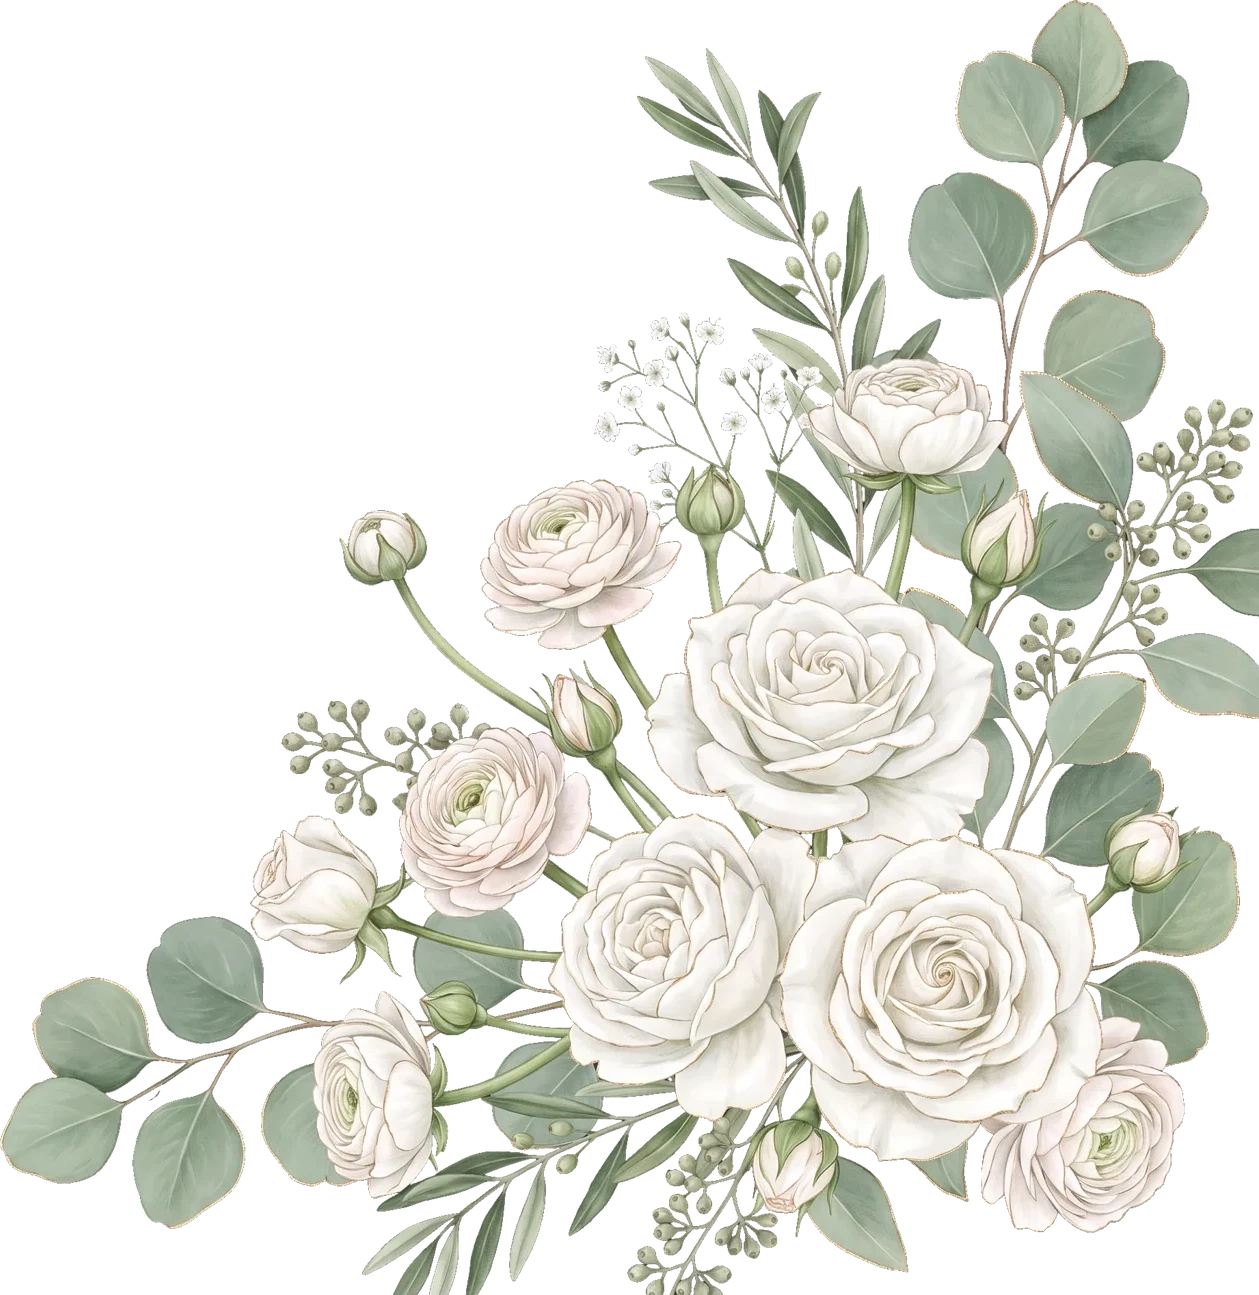
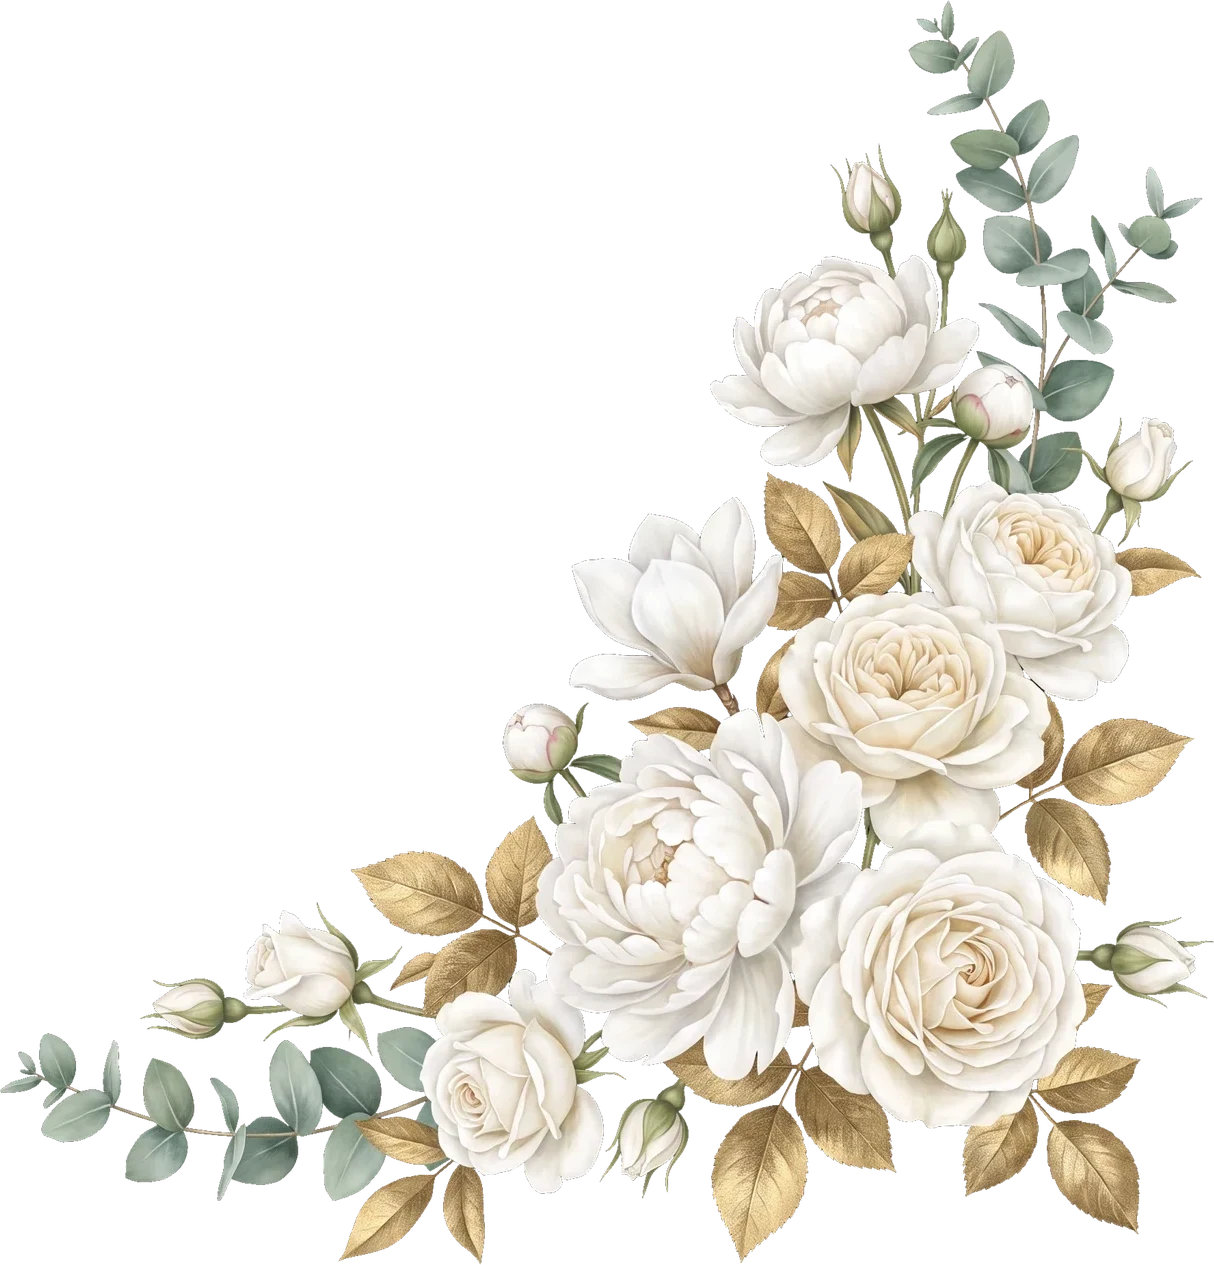
Midnight Navy & Gold theme
Navy linen page with ivory card panels, antique-gold foil, ivory/gold type on
navy and navy ink inside panels; white roses, peonies and magnolias with
gold-foil leaves (GCP Gemini); navy die-cut closing card; JJ logo on an ivory
medallion.

diff --git a/css/style.css b/css/style.css
@@ -1,6 +1,6 @@
 /* =====================================================================
-   Jenisha & Jaswanth — palette taken from the physical card:
-   butter-cream patterned paper, lilac die-cut layers, bronze ink, gold foil.
+   Jenisha & Jaswanth — demo-3 "Midnight Navy & Gold".
+   Navy linen page, ivory card panels, antique-gold foil, ivory/gold text on navy.
    ===================================================================== */
 :root {
   --paper: #FAF7F0;       /* ivory */
@@ -301,9 +301,9 @@ p { margin: 0; }
    10. CLOSING — the physical die-cut card, turned sideways
    ===================================================================== */
 .closing { padding-bottom: 2.5rem; display: grid; justify-items: center; gap: 1.5rem; overflow: hidden; }
-.closing-card { position: relative; width: min(1120px, 96vw); aspect-ratio: 1767 / 936; }
+.closing-card { position: relative; width: min(1120px, 96vw); aspect-ratio: 1907 / 1040; }
 .cc-art { position: absolute; inset: 0; width: 100%; height: 100%; max-width: none; filter: drop-shadow(0 26px 40px rgba(63,74,58,.22)); }
-.cc-content { position: absolute; left: 22%; right: 20%; top: 25%; bottom: 23%; display: grid; grid-template-columns: auto 1fr; align-items: center; gap: 4%; }
+.cc-content { position: absolute; left: 26%; right: 23%; top: 22%; bottom: 21%; display: grid; grid-template-columns: auto 1fr; align-items: center; gap: 4%; }
 .cc-photo { margin: 0; height: 100%; aspect-ratio: 4 / 5; border-radius: 999px 999px 12px 12px; overflow: hidden; position: relative;
   box-shadow: 0 0 0 1px rgba(179,146,88,.7), 0 0 0 6px var(--lilac), 0 16px 30px -16px rgba(63,74,58,.5); }
 .cc-photo img { width: 100%; height: 100%; object-fit: cover; object-position: 50% 70%; }
@@ -332,8 +332,8 @@ p { margin: 0; }
   .cv-flower.tr { top: -11vw; }
   .hero-fl.top-l { top: -10.5vw; }
   .hero-fl.top-r { top: -12vw; }
-  .closing-card { width: 122vw; aspect-ratio: 1074 / 1821; justify-self: start; margin-left: calc(50% - 61vw); }
-  .cc-content { left: 25%; right: 20%; top: 19%; bottom: 13%; grid-template-columns: 1fr; grid-template-rows: auto 1fr; align-items: start; gap: 1rem; }
+  .closing-card { width: 122vw; aspect-ratio: 1027 / 1801; justify-self: start; margin-left: calc(50% - 61vw); }
+  .cc-content { left: 24%; right: 22%; top: 15%; bottom: 12%; grid-template-columns: 1fr; grid-template-rows: auto 1fr; align-items: start; gap: 1rem; }
   .cc-photo { height: auto; width: 82%; justify-self: center; }
   .end-note { font-size: .98rem; }
   .sign { font-size: 2rem; }
@@ -374,4 +374,60 @@ p { margin: 0; }
 }
 @media (prefers-reduced-motion: reduce) {
   *, *::before, *::after { animation: none !important; transition: none !important; }
+}
+
+/* =====================================================================
+   THEME — Midnight Navy & Gold (demo-3)
+   Page level = navy background with ivory/gold text.
+   Inside ivory panels (.light) the ink variables switch back to dark navy.
+   ===================================================================== */
+:root {
+  --paper: #16203A;  --paper-2: #1F2A44;  --face: #F7F2E7;
+  --lilac: #2C3A5E;  --lilac-2: #8FA3B8;  --line: #D9CDB4;
+  --plum: #F4EAD5;   /* headings & names on navy: warm ivory */
+  --bronze: #E2C98F; /* accents on navy: light gold */
+  --ink: #E6E0D2;  --muted: #B9A77E;
+  --gold-1: #C8A45D;  --gold-2: #E8D3A0;
+  --gold: linear-gradient(115deg, #A07E3C 0%, #D8B872 32%, #F6E6BF 46%, #C8A45D 62%, #8C6C30 100%);
+  --navy: #1F2A44;  --navy-ink: #1C2640;
+}
+.pc-face, .face, .medal, .cd-arch, .closing-card, .music-btn, .ev-card .pc-face {
+  --plum: #1F2A44; --bronze: #2E3B5E; --ink: #3A4560; --muted: #7D7A6E; --line: #DED3BC; --lilac: #EADFC4;
+  color: var(--ink);
+}
+@keyframes glow { 0% { box-shadow: 0 0 0 1px rgba(200,164,93,.95), 0 0 0 6px #E8D3A0, 0 0 26px 4px rgba(232,211,160,.6); } 100% { box-shadow: 0 0 0 1px rgba(200,164,93,.6), 0 0 0 6px var(--lilac), 0 18px 34px -16px rgba(0,0,0,.35); } }
+body { background: var(--paper) url("../assets/img/paper_navy.webp") center / 640px repeat; }
+#cover { background: radial-gradient(80% 55% at 50% 22%, rgba(200,164,93,.12), transparent 75%), var(--paper) url("../assets/img/paper_navy.webp") center / 640px repeat; }
+.hero { background: radial-gradient(55% 50% at 50% 50%, rgba(200,164,93,.10), transparent 80%); }
+.events-sec { background: linear-gradient(180deg, rgba(143,163,184,0), rgba(143,163,184,.10) 18%, rgba(143,163,184,.10) 82%, rgba(143,163,184,0)); }
+
+/* gold buttons with navy text on the page; navy buttons inside ivory panels */
+.solid-btn, .open-btn { background: var(--gold); background-size: 200% 100%; color: var(--navy-ink); box-shadow: 0 12px 28px -12px rgba(200,164,93,.6); }
+.solid-btn:hover, .open-btn:hover { background-position: 100% 0; }
+.ghost-btn { color: var(--plum); background: transparent; border-color: var(--gold-1); }
+.ghost-btn:hover { background: var(--gold-1); color: var(--navy-ink); border-color: var(--gold-1); }
+.pc-face .solid-btn, .face .solid-btn { background: var(--navy); color: var(--face); box-shadow: 0 10px 24px -12px rgba(15,22,40,.7); }
+.choice input:checked + span { background: var(--navy); color: var(--face); border-color: var(--navy); }
+
+/* the green JJ logo sits on a small ivory medallion so it stays crisp on navy */
+.hero-logo { background: radial-gradient(circle at 50% 40%, #FFFDF7, var(--face)); border-radius: 50%; padding: 14px;
+  box-shadow: 0 0 0 1px rgba(200,164,93,.8), 0 0 0 6px rgba(200,164,93,.12), 0 12px 30px -10px rgba(0,0,0,.5); }
+
+/* cards, frames and medals: navy die-cut layer + gold edge */
+.pc-back { box-shadow: 0 30px 60px -30px rgba(0,0,0,.6), inset 0 0 0 1px rgba(200,164,93,.55); }
+.story-photo::before { box-shadow: 0 30px 60px -28px rgba(0,0,0,.6), inset 0 0 0 1px rgba(200,164,93,.6); }
+.medal { box-shadow: 0 18px 40px -16px rgba(0,0,0,.55), 0 0 0 6px var(--lilac), 0 0 0 7px rgba(200,164,93,.5); }
+.cd-arch { box-shadow: 0 0 0 1px rgba(200,164,93,.6), 0 0 0 6px var(--lilac), 0 18px 34px -16px rgba(0,0,0,.28); }
+.cc-art, .hero-fl img, .cv-flower, .pc-flower, .story-sprig, .rsvp-flower, .sd-sprig { filter: drop-shadow(0 10px 16px rgba(0,0,0,.45)); }
+.cc-photo { box-shadow: 0 0 0 1px rgba(200,164,93,.8), 0 0 0 6px var(--lilac), 0 16px 30px -16px rgba(0,0,0,.55); }
+.divider span { background: linear-gradient(90deg, transparent, var(--gold-1)); }
+.divider span:last-child { background: linear-gradient(90deg, var(--gold-1), transparent); }
+.scroll-cue, .foot { color: var(--muted); }
+.cover-photo { filter: drop-shadow(0 -10px 30px rgba(0,0,0,.25)); }
+@media (min-width: 721px) {
+  .cc-text { gap: .35rem; }
+  .cc-text .q-mark { font-size: 3rem; height: .35em; }
+  .end-note { font-size: clamp(.92rem, 1.25vw, 1.12rem); }
+  .sign { font-size: clamp(1.7rem, 2.6vw, 2.4rem); }
+  .closing-logo { width: 42px; }
 }

diff --git a/index.html b/index.html
@@ -5,21 +5,21 @@
   <meta name="viewport" content="width=device-width, initial-scale=1, viewport-fit=cover" />
   <title>Jenisha &amp; Jaswanth · Wedding Invitation</title>
   <meta name="description" content="Jenisha & Jaswanth — Wednesday, 20th January 2027, Bengaluru. You are cordially invited." />
-  <meta name="theme-color" content="#FAF7F0" />
+  <meta name="theme-color" content="#16203A" />
   <link rel="icon" href="assets/img/logo.webp" />
   <link rel="preconnect" href="https://fonts.googleapis.com" />
   <link rel="preconnect" href="https://fonts.gstatic.com" crossorigin />
   <link href="https://fonts.googleapis.com/css2?family=Cormorant+Garamond:ital,wght@0,400;0,500;0,600;0,700;1,400;1,500&family=Pinyon+Script&display=swap" rel="stylesheet" />
   <link rel="preload" as="image" href="assets/img/couple_cut.webp" />
-  <link rel="stylesheet" href="css/style.css?v=23" />
+  <link rel="stylesheet" href="css/style.css?v=33" />
 </head>
 <body class="is-locked">
 
   <svg width="0" height="0" style="position:absolute" aria-hidden="true">
     <defs>
       <linearGradient id="gold" x1="0" x2="1" y1="0" y2="1">
-        <stop offset="0" stop-color="#A88650" /><stop offset=".45" stop-color="#EAD9B0" />
-        <stop offset=".7" stop-color="#C9A96E" /><stop offset="1" stop-color="#8E7140" />
+        <stop offset="0" stop-color="#A07E3C" /><stop offset=".45" stop-color="#F0DCA8" />
+        <stop offset=".7" stop-color="#C8A45D" /><stop offset="1" stop-color="#8C6C30" />
       </linearGradient>
       <symbol id="heart" viewBox="0 0 24 22"><path d="M12 21.5 2.6 12.2A5.6 5.6 0 0 1 10.5 4.3L12 5.8l1.5-1.5a5.6 5.6 0 0 1 7.9 7.9z" /></symbol>
       <symbol id="bow" viewBox="0 0 120 90">
@@ -272,8 +272,8 @@
 
   <script src="https://cdn.jsdelivr.net/npm/gsap@3.12.5/dist/gsap.min.js"></script>
   <script src="https://cdn.jsdelivr.net/npm/gsap@3.12.5/dist/ScrollTrigger.min.js"></script>
-  <script src="js/config.js?v=23"></script>
-  <script src="js/petals.js?v=23"></script>
-  <script src="js/main.js?v=23"></script>
+  <script src="js/config.js?v=33"></script>
+  <script src="js/petals.js?v=33"></script>
+  <script src="js/main.js?v=33"></script>
 </body>
 </html>

diff --git a/js/main.js b/js/main.js
@@ -242,7 +242,7 @@
       cv.width = r.width * dpr; cv.height = r.height * dpr; ctx.setTransform(dpr, 0, 0, dpr, 0, 0);
       const w = r.width, h = r.height;
       const g = ctx.createLinearGradient(0, 0, w, h);
-      g.addColorStop(0, "#9A7B45"); g.addColorStop(.3, "#D4B983"); g.addColorStop(.48, "#F6ECD3"); g.addColorStop(.62, "#C9A96E"); g.addColorStop(1, "#86693A");
+      g.addColorStop(0, "#A07E3C"); g.addColorStop(.3, "#D8B872"); g.addColorStop(.48, "#F8EACA"); g.addColorStop(.62, "#C8A45D"); g.addColorStop(1, "#8C6C30");
       ctx.globalCompositeOperation = "source-over";
       ctx.fillStyle = g; ctx.beginPath(); ctx.arc(w / 2, h / 2, w / 2, 0, Math.PI * 2); ctx.fill();
       // foil grain + brushed lines

diff --git a/tools/process_navy.py b/tools/process_navy.py
@@ -1,0 +1,30 @@
+"""demo-3 Midnight Navy & Gold: raw Gemini PNGs -> web WebP (reuses the demo-2 roses/petals/venues)."""
+import os, subprocess, sys
+from PIL import Image
+import numpy as np
+from scipy import ndimage as ndi
+
+os.chdir(os.path.dirname(os.path.dirname(os.path.abspath(__file__))))
+R, O, PY = "assets/raw", "assets/img", sys.executable
+
+def cut(src, dst, mx, bg="2b2b2b", tol="26"):
+    subprocess.check_call([PY, "tools/cutout.py", f"{R}/{src}.png", dst, "--bg", bg, "--tol", tol, "--max", str(mx)])
+    im = Image.open(dst).convert("RGBA"); bb = im.getchannel("A").point(lambda v: 255 if v > 12 else 0).getbbox()
+    if bb: im = im.crop(bb)
+    im.save(dst, "WEBP", quality=88)
+
+# navy linen page texture
+Image.open(f"{R}/n_paper.png").convert("RGB").resize((1024, 1024), Image.LANCZOS).save(f"{O}/paper_navy.webp", quality=82)
+
+for src, dst, mx in [("n_top_l", "hero_top_l", 1400), ("n_top_r", "hero_top_r", 1400), ("n_bot_l", "hero_bot_l", 1400), ("n_corner", "frame_cluster", 900)]:
+    cut(src, f"{O}/{dst}.webp", mx)
+Image.open(f"{O}/hero_bot_l.webp").transpose(Image.FLIP_LEFT_RIGHT).save(f"{O}/hero_bot_r.webp", "WEBP", quality=88)
+
+for src, dst in [("n_card", "closing_card"), ("n_card_m", "closing_card_m")]:
+    cut(src, f"{O}/{dst}.webp", 2000, bg="ffffff", tol="12")
+    im = Image.open(f"{O}/{dst}.webp").convert("RGBA"); a = np.asarray(im).astype(int)
+    r, g, b, al = a[..., 0], a[..., 1], a[..., 2], a[..., 3]
+    ivory = ndi.binary_opening((al > 200) & (r > 232) & (g > 224) & (b > 200) & (abs(r - g) < 14), iterations=4)
+    lab, k = ndi.label(ivory); big = np.argmax(ndi.sum(ivory, lab, range(1, k + 1))) + 1
+    ys, xs = np.where(lab == big); H, W = ivory.shape
+    print(dst, im.size, "panel x %.3f-%.3f y %.3f-%.3f" % (xs.min() / W, xs.max() / W, ys.min() / H, ys.max() / H))
